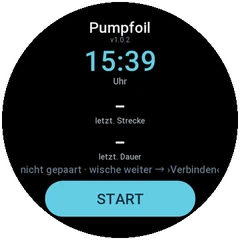
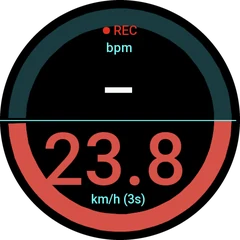
Startseite: neue Amazfit-Bilder (7, aus Jans Simulator) + .gitignore devflags.js wieder drin
- Sieben Bilder aus dem Zepp-Simulator (3c542aa1), Kreis an der Kante zum grauen
  Fensterhintergrund vermessen (Fensterinhalt ist 960 x 998, nicht quadratisch).
  #8/#9 bewusst weggelassen: dort ueberdeckt „Paused" die Datenfelder.
- watch-zepp/.gitignore: die Zeile page/devflags.js war im Commit 3c542aa1 verloren
  gegangen; ohne sie kaeme devflags.js (ggf. mit DEV_FAKE_GPS = true) beim naechsten
  `git add .` ins Repo.

Claude-Session: https://claude.ai/code/session_01SwpsW3PioXLbF9Wo2iJrfq

diff --git a/web/src/pages/Landing.tsx b/web/src/pages/Landing.tsx
@@ -323,7 +323,7 @@ export default function Landing() {
                 images={["/watch-wear-1.webp", "/watch-wear-2.webp", "/watch-wear-3.webp"]}
                 badge={<PlayBadge className="mt-2" />} />
               <WatchCarousel rounded="rounded-full" caption="Amazfit" sub="Zepp OS"
-                images={["/watch-amazfit-1.webp", "/watch-amazfit-2.webp", "/watch-amazfit-3.webp"]}
+                images={[1, 2, 3, 4, 5, 6, 7].map((n) => `/watch-amazfit-${n}.webp`)}
                 badge={<ZeppAppBadges />} />
               {/* HUAWEI (10.10.2026, Jan: „NEU (Beta) kennzeichnen und hervorheben"). Bilder aus Jans
                   DevEco-Emulator (Watch 5, ArkTS) mit den Standard-Layouts der Community, auf das runde
